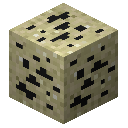
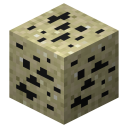
Various updates for TF

diff --git a/docs/tectonic-petrotheum/index.md b/docs/tectonic-petrotheum/index.md
@@ -43,10 +43,8 @@ Tectonic petrotheum flows like other fluids. Petrotheum source blocks will also
 gradually fall downwards if there are no blocks below them.
 
 ### Effects
-When touched by players and mobs, tectonic petrotheum applies the effects [Haste
-I](https://minecraft.gamepedia.com/Status_effect#Haste) and [Night
-Vision](https://minecraft.gamepedia.com/Status_effect#Night_Vision) to them for
-6 seconds.
+When touched by players and mobs, tectonic petrotheum applies the effect [Haste
+I](https://minecraft.gamepedia.com/Status_effect#Haste) to them for 6 seconds.
 
 When tectonic petrotheum touches [stone](https://minecraft.gamepedia.com/Stone),
 [cobblestone](https://minecraft.gamepedia.com/Cobblestone), [stone
@@ -54,8 +52,8 @@ bricks](https://minecraft.gamepedia.com/Stone_Bricks) or [moss
 stone](https://minecraft.gamepedia.com/Moss_Stone), these blocks are turned into
 [gravel](https://minecraft.gamepedia.com/Gravel).
 
-If enabled, tectonic petrotheum breaks any adjacent blocks made of stone or
-rock. This is disabled by default.
+If enabled, tectonic petrotheum breaks any adjacent stone- or rock-like blocks.
+This is disabled by default.
 
 ### Fluid Transposer ingredient
 {% include recipe-table.html type='transposer-fill' recipes=page.usage-recipes.transposer-fill %}

diff --git a/docs/oil-sand/index.md b/docs/oil-sand/index.md
@@ -1,6 +1,11 @@
 ---
 title: Oil Sand
 nav: thermal-foundation
+image:
+  - alt: Oil sand
+    file: thermal-foundation/ore-fluid-crude-oil-sand.png
+  - alt: Oil sand
+    file: thermal-foundation/ore-fluid-crude-oil-red-sand.png
 redirect_from:
   - /docs/thermal-foundation/ores/oil-sand/
   - /docs/thermal-foundation/world/fluid-ores/oil-sand/
@@ -11,12 +16,11 @@ usage-recipes:
     - fluid-ore-processing-oil-sand
 ---
 
-![Oil sand](/assets/images/thermal-foundation/ore-fluid-crude-oil-sand.png){:style="height: 128px"}
-
-
 **Oil sand** is an uncommon [ore](https://minecraft.gamepedia.com/Ore) that
 yields [bitumen](/docs/bitumen/) ([crude oil](/docs/crude-oil/)) and small
-amounts of [tar](/docs/tar/).
+amounts of [tar](/docs/tar/). It comes in regular
+[sand](https://minecraft.gamepedia.com/Sand) and [red
+sand](https://minecraft.gamepedia.com/Red_Sand) variants.
 
 
 Obtaining
@@ -59,6 +63,6 @@ Usage
 Trivia
 ------
 
-* Oil sand is generated in the world using [CoFH World](/docs/cofh-world/). The
-  world generation can be tweaked or disabled using CoFH World's
+* Oil sand is generated in the world using [CoFH World](/docs/cofh-world/) by
+  default. The world generation can be tweaked or disabled using CoFH World's
   [configuration](/docs/world-generator-configuration/).

diff --git a/docs/tf-potion-recipes/index.md b/docs/tf-potion-recipes/index.md
@@ -21,13 +21,13 @@ potions](https://minecraft.gamepedia.com/Potion#Base_potions).
 | Potion of Resistance | [Pulverized Obsidian](/docs/pulverized-obsidian/) |
 | Potion of Levitation | [Blitz Powder](/docs/blitz-powder/) |
 | Potion of Absorption | [Blizz Powder](/docs/blizz-powder/) |
+| Potion of Luck | [Emerald](https://minecraft.gamepedia.com/Emerald) |
 {:.uk-table .uk-table-striped .uk-table-condensed .uk-text-small .cofh-table-compress}
 
-Potions of decay can be brewed by adding a [fermented spider
-eye](https://minecraft.gamepedia.com/Fermented_Spider_Eye) to a [potion of
-regeneration](https://minecraft.gamepedia.com/Potion#Potion_of_Regeneration).
+Potions of misfortune and decay can be brewed by adding [fermented spider
+eyes](https://minecraft.gamepedia.com/Fermented_Spider_Eye) to potions of luck
+and regeneration, respectively.
 
 Like with other potions, [redstone](https://minecraft.gamepedia.com/Redstone)
-and [glowstone dust](https://minecraft.gamepedia.com/Glowstone_Dust) can be
-added to extend the duration and increase the strength of these potions,
-respectively.
+and [glowstone dust](https://minecraft.gamepedia.com/Glowstone_Dust) can be used
+to extend the duration and increase the strength of these potions.

diff --git a/docs/gold-gear/index.md b/docs/gold-gear/index.md
@@ -8,14 +8,16 @@ recipes:
     - gear-gold
   compactor-gear:
     - gear-gold
+usage-recipes:
+  crafting:
+    - multimeter
 ---
 
 ![Gold gear](/assets/images/thermal-foundation/gear-gold.png){:style="height: 128px"}
 
 
 **Gold gears** are crafting materials made of
-[gold](https://minecraft.gamepedia.com/Gold_Ingot). They are currently not used
-for anything.
+[gold](https://minecraft.gamepedia.com/Gold_Ingot).
 
 
 Obtaining
@@ -26,3 +28,10 @@ Obtaining
 
 ### Compactor with Gearworking Die
 {% include recipe-table.html type='compactor-gear' recipes=page.recipes.compactor-gear no-result=true %}
+
+
+Usage
+-----
+
+### Crafting ingredient
+{% include recipe-table.html type='crafting' recipes=page.usage-recipes.crafting %}

diff --git a/docs/thermal-foundation/index.md b/docs/thermal-foundation/index.md
@@ -15,8 +15,8 @@ well as ways to obtain them. It also provides new sets of weapons, tools and
 armor made of various materials.
 
 When Thermal Foundation is installed, several new features such as ores are
-generated in the world using [CoFH World](/docs/cofh-world/). This world
-generation can be tweaked or disabled using CoFH World's
+generated in the world using [CoFH World](/) (if installed).
+This world generation can be tweaked or disabled using CoFH World's
 [configuration](/docs/world-generator-configuration/).
 
 

diff --git a/docs/tool-casing/index.md b/docs/tool-casing/index.md
@@ -1,0 +1,20 @@
+---
+title: Tool Casing
+nav: thermal-foundation
+image:
+  - alt: Tool casing
+    file: thermal-foundation/tool-casing.png
+recipes:
+  crafting:
+    - tool-casing
+---
+
+**Tool casings** are crafting materials used to craft
+[fluxbores](/docs/fluxbore/) and [fluxsaws](/docs/fluxsaw/).
+
+
+Obtaining
+---------
+
+### Crafting
+{% include recipe-table.html type='crafting' recipes=page.recipes.crafting no-result=true %}

diff --git a/docs/silver-ore/index.md b/docs/silver-ore/index.md
@@ -64,6 +64,6 @@ Silver ore emits a light level of 4.
 Trivia
 ------
 
-* Silver ore is generated in the world using [CoFH World](/docs/cofh-world/).
-  The world generation can be tweaked or disabled using CoFH World's
+* Silver ore is generated in the world using [CoFH World](/docs/cofh-world/) by
+  default. The world generation can be tweaked or disabled using CoFH World's
   [configuration](/docs/world-generator-configuration/).

diff --git a/docs/saw-blade/index.md b/docs/saw-blade/index.md
@@ -1,0 +1,20 @@
+---
+title: Saw Blade
+nav: thermal-foundation
+image:
+  - alt: Saw blade
+    file: thermal-foundation/saw-blade.png
+recipes:
+  crafting:
+    - saw-blade
+---
+
+**Saw blades** are crafting materials used to craft [sawmills](/docs/sawmill/)
+and [fluxsaws](/docs/fluxsaw/).
+
+
+Obtaining
+---------
+
+### Crafting
+{% include recipe-table.html type='crafting' recipes=page.recipes.crafting no-result=true %}

diff --git a/docs/destabilized-redstone-ore/index.md b/docs/destabilized-redstone-ore/index.md
@@ -62,5 +62,6 @@ Trivia
 ------
 
 * Destabilized redstone ore is generated in the world using [CoFH
-  World](/docs/cofh-world/). The world generation can be tweaked or disabled
-  using CoFH World's [configuration](/docs/world-generator-configuration/).
+  World](/docs/cofh-world/) by default. The world generation can be tweaked or
+  disabled using CoFH World's
+  [configuration](/docs/world-generator-configuration/).

diff --git a/docs/cofh-world/index.md b/docs/cofh-world/index.md
@@ -10,8 +10,8 @@ nav: cofh-world
 the mods of Team CoFH. It also provides a configuration system that allows users
 to define new types of features to generate in worlds.
 
-This mod must be installed in order for [Thermal
-Foundation](/docs/thermal-foundation/) to run.
+[Thermal Foundation](/docs/thermal-foundation/) uses this mod for its world
+generation by default.
 
 
 <div class="uk-margin-top uk-button-group">

diff --git a/docs/energized-netherrack/index.md b/docs/energized-netherrack/index.md
@@ -59,5 +59,6 @@ Trivia
 ------
 
 * Energized netherrack is generated in the world using [CoFH
-  World](/docs/cofh-world/). The world generation can be tweaked or disabled
-  using CoFH World's [configuration](/docs/world-generator-configuration/).
+  World](/docs/cofh-world/) by default. The world generation can be tweaked or
+  disabled using CoFH World's
+  [configuration](/docs/world-generator-configuration/).

diff --git a/docs/resonant-end-stone/index.md b/docs/resonant-end-stone/index.md
@@ -57,5 +57,6 @@ Trivia
 ------
 
 * Resonant end stone is generated in the world using [CoFH
-  World](/docs/cofh-world/). The world generation can be tweaked or disabled
-  using CoFH World's [configuration](/docs/world-generator-configuration/).
+  World](/docs/cofh-world/) by default. The world generation can be tweaked or
+  disabled using CoFH World's
+  [configuration](/docs/world-generator-configuration/).
